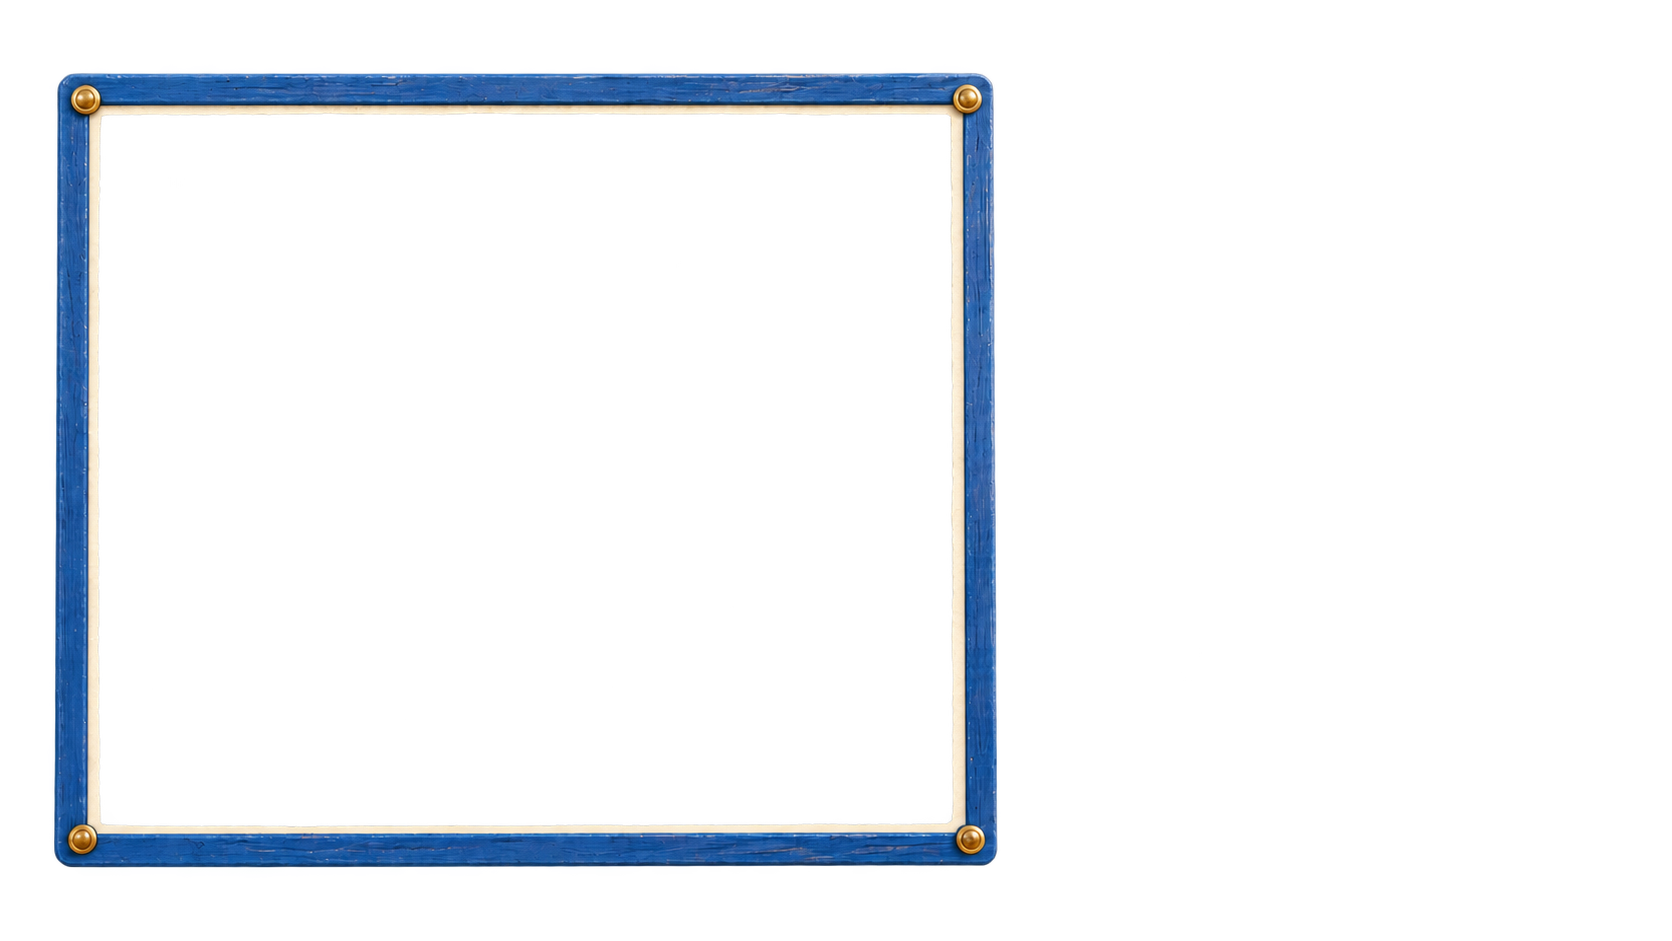
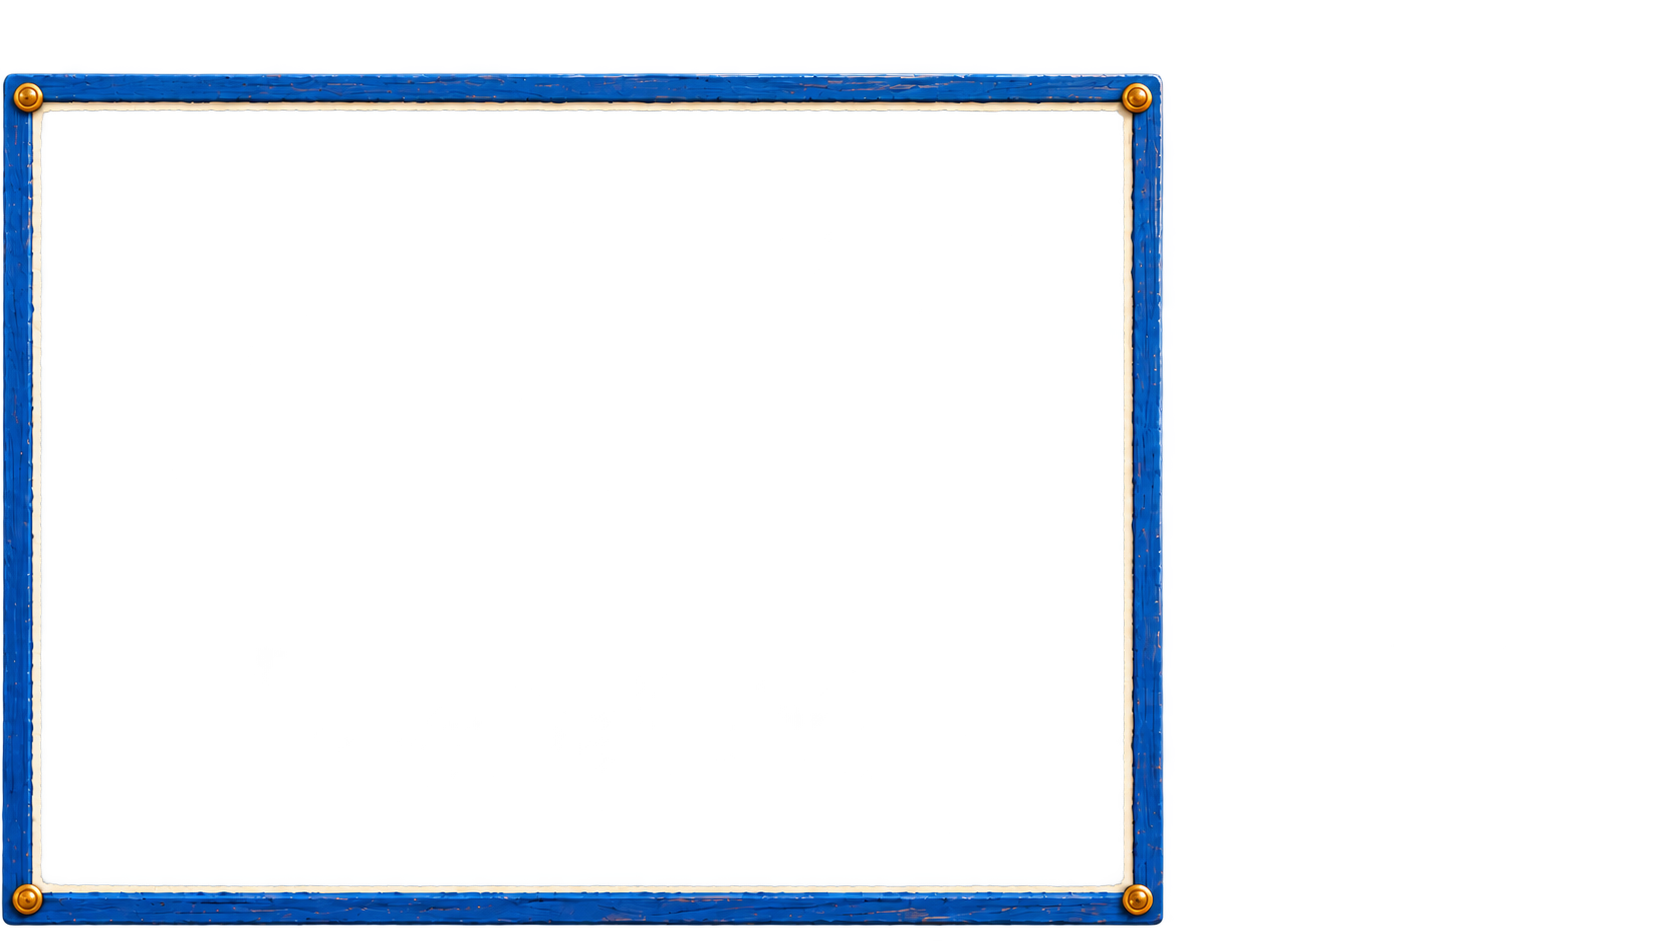
Give Showdown more usable space beside Fox

Changed region(s): [[0.0, 0.0616, 0.7157, 0.9862]]

diff --git a/scripts/applet-scene-check.ts b/scripts/applet-scene-check.ts
@@ -53,6 +53,26 @@ try{
  const fit=await expected(browserScene.registration,1920,1080),got=await measure();
  near(got.region,fit.regions[0],'another scene moves Mail to its own region');
  assert.equal(got.ink,village.sceneMaterials.screen.ink,'and dresses it in that region\'s material');assert.equal(got.letters,1);
+ // A framed web scene places the actual shell and Fox on the theme's registered coordinates.
+ await page.addStyleTag({content:await readFile('ui/components/layout.css','utf8')+await readFile('ui/companion/companion-dialogue.css','utf8')});
+ await page.evaluate(()=>{const shell=document.getElementById('shell')!;shell.id='notionWorld';shell.className='native-console fox-first-console';shell.dataset.depth='object';shell.dataset.panelScene='pokemon-showdown';shell.dataset.appletShelf='true';
+  shell.insertAdjacentHTML('beforeend','<div class="notion-content" data-template="browser"></div><div class="notion-hud"><div class="companion-dialogue">A reply beside the game</div></div>');});
+ const showdown=village.appletScenes['pokemon-showdown'];
+ for(const [width,height] of [[1672,941],[1440,900],[1000,900]]){
+  await page.setViewportSize({width,height});
+  await page.evaluate(source=>{const w=window as any;w.scene.destroy();w.scene=w.Scene.mountAppletScene(document.getElementById('host'),'pokemon-showdown',{source,shell:document.getElementById('notionWorld')});},showdown);
+  await page.waitForTimeout(350);
+  const bounds=await page.evaluate(()=>{const box=(s:string)=>{const r=document.querySelector(s)!.getBoundingClientRect();return {x:r.x,y:r.y,width:r.width,height:r.height};};return {panel:box('.notion-content'),hud:box('.notion-hud'),replyWidth:parseFloat(getComputedStyle(document.querySelector('.companion-dialogue')!).width),scene:(window as any).scene.metrics};});
+  assert.ok(bounds.panel.x+bounds.panel.width<bounds.hud.x,'Fox and the webpage do not overlap at '+width);
+  assert.ok(Math.abs(bounds.hud.x+bounds.hud.width/2-(bounds.scene.companion.x+bounds.scene.companion.width/2))<2,'Fox is centered in the painted companion lane');
+  assert.ok(bounds.replyWidth<=bounds.hud.width+1,'Replies fit Fox’s lane');
+  if(width===1672){assert.ok(bounds.panel.width>width*.64,'The webpage uses about two thirds of the width');assert.ok(bounds.panel.height>height*.79,'The webpage uses about eighty percent of the height, after the shelf');}
+ }
+ await page.setViewportSize({width:500,height:800});await page.waitForTimeout(50);
+ assert.equal(await page.locator('#notionWorld').getAttribute('data-applet-frame'),null,'Compact layout releases the companion lane');
+ await page.setViewportSize({width:1672,height:941});await page.waitForTimeout(50);
+ await page.evaluate(()=>{(window as any).scene.destroy();const shell=document.getElementById('notionWorld')!;delete shell.dataset.depth;delete shell.dataset.panelScene;delete shell.dataset.appletShelf;shell.className='';shell.querySelector('.notion-hud')!.remove();shell.querySelector('.notion-content')!.remove();shell.id='shell';});
+ assert.equal(await page.locator('#shell').getAttribute('data-applet-frame'),null,'Destroy releases frame state');
  // No painting: one sheet of paper, no picture.
  const plain=await mount('unknown-applet',undefined);
  assert.equal(plain.painted,false);assert.equal(await page.locator('.applet-scene-plate').count(),0);assert.equal((await measure()).letters,1);

diff --git a/ui/applets/scene/applet-scene.ts b/ui/applets/scene/applet-scene.ts
@@ -71,13 +71,14 @@ export function mountAppletScene(host:HTMLElement,key:string,options:{source?:Ap
   const round=(r:{x:number;y:number;width:number;height:number})=>({x:Math.round(r.x),y:Math.round(r.y),width:Math.round(r.width),height:Math.round(r.height)});
   last={key,painted,compact,primary:round(primary),companion:round(fit.companion)};
   const shell=options.shell;if(!shell)return;
-  if(compact){if(shell.dataset.appletScene===key)delete shell.dataset.appletScene;return;}
+  if(compact){if(shell.dataset.appletScene===key)delete shell.dataset.appletScene;delete shell.dataset.appletFrame;return;}
   const s=shell.getBoundingClientRect(),e=element.getBoundingClientRect();
   for(const [name,r] of [['primary',primary],['companion',fit.companion]] as const){
    shell.style.setProperty(`--applet-scene-${name}-left`,e.left-s.left+r.x+'px');shell.style.setProperty(`--applet-scene-${name}-top`,e.top-s.top+r.y+'px');
    shell.style.setProperty(`--applet-scene-${name}-width`,r.width+'px');shell.style.setProperty(`--applet-scene-${name}-height`,r.height+'px');
   }
   shell.dataset.appletScene=key;
+  if(source.registration.webFrame)shell.dataset.appletFrame=key;else delete shell.dataset.appletFrame;
  }
  const resize=new ResizeObserver(layout);resize.observe(element);layout();
  return {element,regions,primary:primaryRegion,painted,layout,
@@ -93,7 +94,7 @@ export function mountAppletScene(host:HTMLElement,key:string,options:{source?:Ap
   },
   destroy(){
    resize.disconnect();element.remove();const shell=options.shell;if(!shell||shell.dataset.appletScene!==key)return;
-   delete shell.dataset.appletScene;for(const name of Object.keys(shellStyle))shell.style.removeProperty(name);
+   delete shell.dataset.appletScene;delete shell.dataset.appletFrame;for(const name of Object.keys(shellStyle))shell.style.removeProperty(name);
    for(const part of ['primary','companion'])for(const side of ['left','top','width','height'])shell.style.removeProperty(`--applet-scene-${part}-${side}`);
   }};
 }

diff --git a/ui/applets/scene/applet-scene.css b/ui/applets/scene/applet-scene.css
@@ -72,3 +72,24 @@
 #notionWorld[data-panel-scene]>.notion-content[data-template=game] .game-body{flex:1;min-height:0;container-type:size}
 #notionWorld[data-panel-scene]>.notion-content[data-template=game] .game-body .game-board{max-width:min(100%,100cqh);max-height:100cqh}
 #notionWorld[data-panel-scene]>.notion-content[data-template=game] .sudoku-game{width:min(100%,396px,calc(100cqh - 48px))}
+
+/* A registered frame and Fox use the same theme geometry, rather than reserving a second fixed third.
+   Narrow windows retain the shell's stacked layout. The image and native foreground keep one scale. */
+@media(min-width:801px){
+ #notionWorld.native-console[data-applet-frame][data-applet-scene]{--reader-companion-lane:calc(100% - var(--applet-scene-companion-left))}
+ #notionWorld.native-console[data-applet-frame][data-applet-scene] .notion-hud{
+  left:calc(var(--applet-scene-companion-left) + var(--applet-scene-companion-width) / 2);
+  width:calc(var(--applet-scene-companion-width) - 24px);transform:translateX(-50%);
+ }
+ #notionWorld.native-console.fox-first-console[data-applet-frame][data-applet-scene] .companion-dialogue{
+  width:min(460px,calc(var(--applet-scene-companion-width) - 24px));
+  max-width:calc(var(--applet-scene-companion-width) - 24px);min-width:0;
+ }
+ #notionWorld.native-console.fox-first-console[data-applet-frame][data-applet-scene] .companion-action-bar{min-width:0}
+}
+
+/* The shelf's active label ends at 127px; a framed page only needs a small clearance beneath it. */
+#notionWorld[data-applet-frame][data-applet-scene][data-panel-scene][data-applet-shelf]>.notion-content:is([data-template=browser],[data-template=game]){
+ top:max(var(--applet-scene-primary-top),132px);
+ height:calc(var(--applet-scene-primary-height) + var(--applet-scene-primary-top) - max(var(--applet-scene-primary-top),132px));
+}

diff --git a/resources/styles/builtin/references/registered-scenes/brands/pokemon-showdown/frame-cutout.md b/resources/styles/builtin/references/registered-scenes/brands/pokemon-showdown/frame-cutout.md
@@ -1,7 +1,9 @@
 # Showdown frame foreground
 
-Generated with built-in imagegen from the bundled Village Showdown background, with transparent output. The background itself is unchanged.
+Generated with built-in imagegen from the bundled Village Showdown background, with transparent output. The board expands almost to the left and bottom canvas edges; the brand cabinet stays above the companion’s open terrace.
 
-Prompt: Extract only the blue wooden frame, four brass corner bolts and a narrow irregular ivory paper rim. Keep the original canvas and layout. Make the blank center and all scenery outside the frame transparent. Preserve wood grain, lighting and paper texture; no new text or props.
+Prompt: Extract only the blue wooden frame, four brass corner bolts and a narrow irregular ivory paper rim. Keep the expanded canvas layout, with the frame taking roughly seventy percent of the width and nearly the full height below navigation. Make the blank center and all scenery outside the frame transparent. Preserve wood grain, lighting and paper texture; no new text or props.
 
 The cutout has true alpha. Generation slightly shifted the frame, so `catalog.json` registers the extracted frame bounds to the original painting. Runtime uses the cutout alpha only and samples every visible colour from the original background. This keeps the original art aligned and avoids doubling a repainted frame. The native layer ignores mouse input.
+
+Background edit prompt (built-in imagegen): enlarge the blue board toward the left and bottom image edges and about seventy percent of the width; keep the Village lighting, thin blue rails, brass corner pins and blank cream paper. Preserve the Showdown brand cabinet and flag at upper right. Remove the cushions and open the lower-right terrace for the live companion and dialogue.

diff --git a/ui/applets/scene/README.md b/ui/applets/scene/README.md
@@ -17,3 +17,5 @@ Every scene Applet the active theme paints a scene for, its own or its family's,
 For registered websites, optional `registration.webEdge` supplies a narrow irregular foreground. `scene.paperEdge(rect)` projects original background pixels relative to the actual browser viewport. The native host paints this in a transparent, click-through child window above the external page; compact layouts, task picture in picture and website fullscreen omit it. This preserves painted paper edges without injecting CSS into the website or changing its layout.
 
 `registration.webFrame` can replace the procedural narrow overlap with a complete extracted frame. Its transparent mask has normalized source and target bounds; the shared canvas combines its alpha with the original painting's colours. The native foreground spans the scene, while the website remains a rectangular usable surface beneath the inner paper rim. The theme asset resolver publishes the mask alongside the background.
+
+On desktop, a registered frame also aligns Fox and its reply to the theme's companion rectangle. The Applet shelf uses the resulting lane boundary, so the painting, webpage and companion do not independently reserve conflicting widths. Reply cards shrink within that lane; narrow-window and compact fallback layouts keep the shell's existing behavior.
